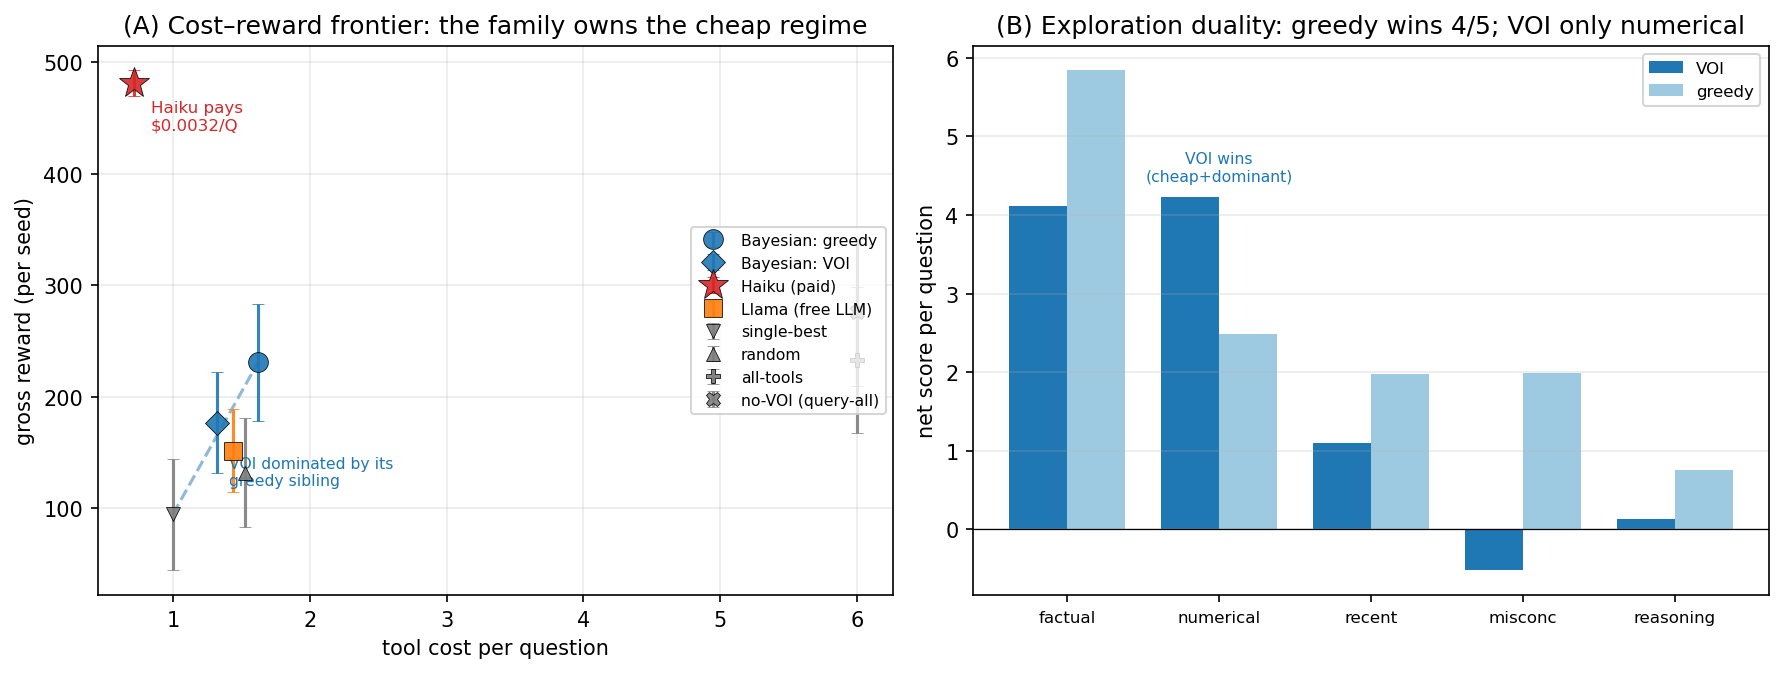
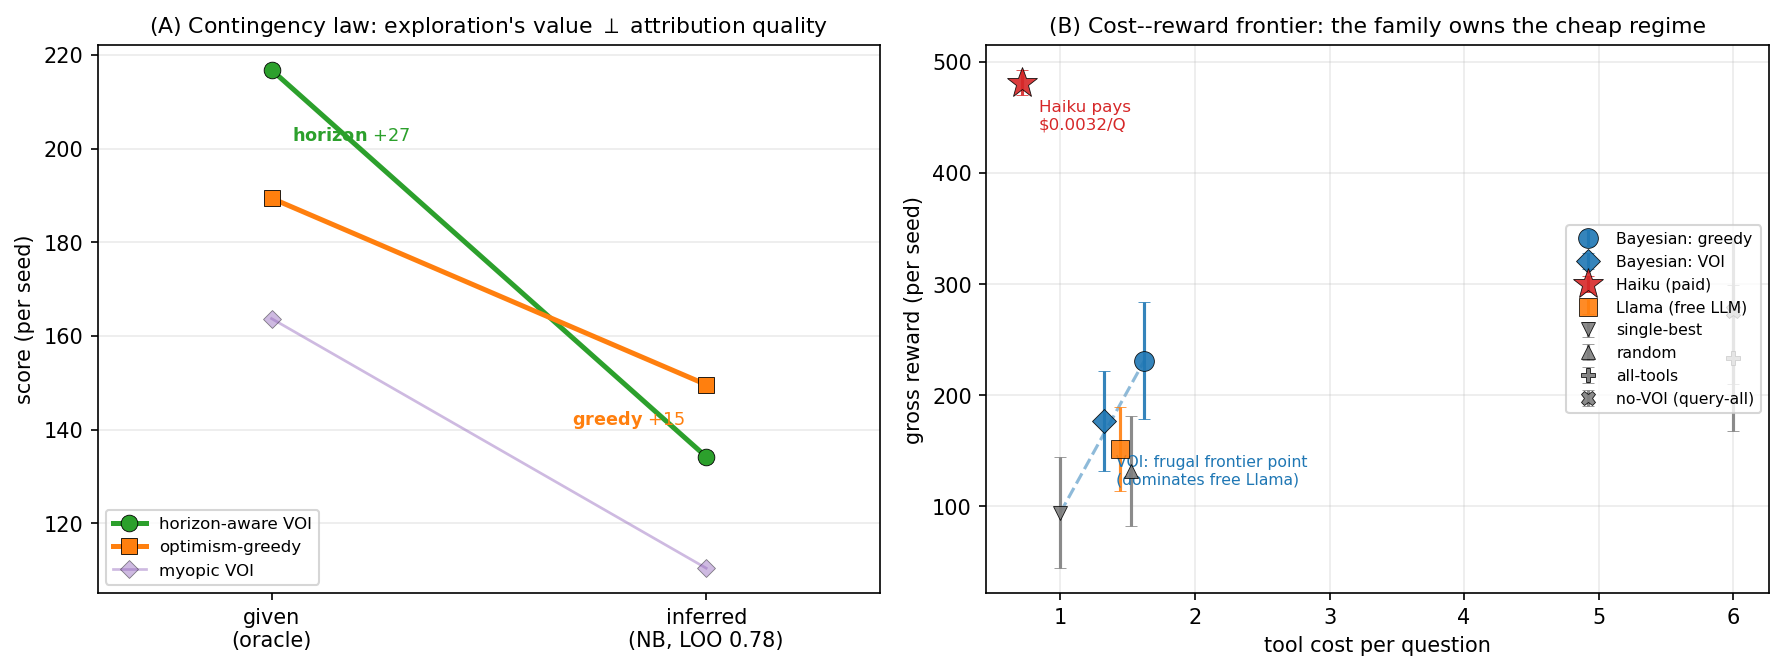
[paper1] Phase C: regenerate pareto figure to the contingency law
Panel A is now the decomposition as a slope chart: horizon-aware VOI beats
optimism-greedy by +27 with given (oracle) categories and loses by 15 once
they are inferred (0.78-accuracy classifier) -- the crossover is the
contingency law. Panel B keeps the cost--reward frontier with VOI as the
frugal point that dominates the free local Llama. Replaces the
pre-contingency annotations ("VOI dominated by its greedy sibling",
"greedy wins 4/5"). Decomposition numbers (which span several scripts) are
a documented dict citing papers/RESULTS.md; Panel B reads the host DB.

diff --git a/scripts/paper1-pareto-figure.py b/scripts/paper1-pareto-figure.py
@@ -1,15 +1,22 @@
 #!/usr/bin/env python3
-"""Paper 1 B4 figure — cost–reward frontier + the exploration duality.
+"""Paper 1 figure — the exploration--attribution contingency law + the cost frontier.
 
-Panel A: gross reward vs tool cost/Q. The Bayesian family (greedy, VOI) owns the
-cost-conscious frontier; Haiku is the paid-$ frontier point; Llama is dominated.
-Panel B: per-category net/Q, VOI vs greedy — the lopsided duality (greedy wins 4
-of 5; VOI wins only numerical, the cheap-and-dominant-by-a-wide-margin tool).
+Panel A (headline): the decomposition as a slope chart. Horizon-aware VOI beats
+optimism-greedy with *given* categories (+27) and loses under *inferred* ones; the
+crossover between the two conditions IS the contingency law. Myopic VOI shown faint
+(loses both). Decomposition numbers are locked in papers/RESULTS.md ("THE
+DECOMPOSITION"): the oracle column and the inferred greedy/myopic points come from
+the host DB; the inferred horizon point (134.2) comes from
+scripts/paper1-horizon-inferred.jl. Hard-coded here because they span scripts.
+
+Panel B: gross reward vs tool cost/Q. The Bayesian family (greedy, VOI) owns the
+cost-conscious frontier; VOI is the frugal point that dominates the free local Llama
+(fewer calls AND higher score); Haiku is the paid-$ frontier point; Llama dominated.
 
   python3 scripts/paper1-pareto-figure.py
 Writes papers/paper1/pareto.{pdf,png}.
 """
-import sqlite3, json, os, statistics as st
+import sqlite3, os, statistics as st
 import matplotlib
 matplotlib.use("Agg")
 import matplotlib.pyplot as plt
@@ -19,8 +26,13 @@ DB = os.path.join(HERE, "..", "apps", "julia", "qa_benchmark", "results", "bench
 OUT = os.path.join(HERE, "..", "papers", "paper1")
 con = sqlite3.connect(DB); con.row_factory = sqlite3.Row
 QPS = 50
-CATS = ["factual", "numerical", "recent_events", "misconceptions", "reasoning"]
-CATLAB = ["factual", "numerical", "recent", "misconc", "reasoning"]
+
+# Locked decomposition (papers/RESULTS.md): (oracle/given, inferred/fair) score.
+DECOMP = {
+    "horizon-aware VOI": (216.8, 134.2),
+    "optimism-greedy":   (189.4, 149.6),
+    "myopic VOI":        (163.7, 110.4),
+}
 
 
 def agg(agent):
@@ -32,21 +44,37 @@ def agg(agent):
                 api=st.mean(r["total_api_cost_usd"] for r in rr) / QPS)
 
 
-def per_cat_net(agent):
-    out = {c: [0.0, 0] for c in CATS}
-    for r in con.execute("SELECT q.category c, q.reward rw, q.tool_cost tc FROM questions q "
-                         "JOIN runs r ON q.run_id=r.id WHERE r.agent=?", (agent,)):
-        out[r["c"]][0] += r["rw"] - r["tc"]; out[r["c"]][1] += 1
-    return [out[c][0] / out[c][1] for c in CATS]
-
-
 AG = {a: agg(a) for a in ["bayesian_inferred", "greedy_inferred", "llama3.1",
                           "claude-haiku-4-5-20251001", "single_best", "random",
                           "all_tools", "no_voi_inferred"]}
 
 fig, (axA, axB) = plt.subplots(1, 2, figsize=(12, 4.6))
 
-# ---- Panel A: frontier ----
+# ---- Panel A: the contingency law (slope chart) ----
+xs = [0, 1]
+pa_style = {  # colour, marker, linewidth, alpha, markersize
+    "horizon-aware VOI": ("#2ca02c", "o", 2.4, 1.0, 8),
+    "optimism-greedy":   ("#ff7f0e", "s", 2.4, 1.0, 8),
+    "myopic VOI":        ("#9467bd", "D", 1.3, 0.45, 6),
+}
+for name, (y_oracle, y_inf) in DECOMP.items():
+    col, mk, lw, al, ms = pa_style[name]
+    axA.plot(xs, [y_oracle, y_inf], marker=mk, color=col, lw=lw, alpha=al, ms=ms,
+             markeredgecolor="black", markeredgewidth=0.4, label=name, zorder=3)
+# the two gaps that ARE the law, annotated at the line midpoints
+axA.annotate("horizon $+27$", (0.0, (216.8 + 189.4) / 2), textcoords="offset points",
+             xytext=(10, -3), fontsize=8.5, color="#2ca02c", fontweight="bold", ha="left")
+axA.annotate("greedy $+15$", (1.0, (149.6 + 134.2) / 2), textcoords="offset points",
+             xytext=(-10, -2), fontsize=8.5, color="#ff7f0e", fontweight="bold", ha="right")
+axA.set_xlim(-0.4, 1.4)
+axA.set_xticks(xs)
+axA.set_xticklabels(["given\n(oracle)", "inferred\n(NB, LOO 0.78)"])
+axA.set_ylabel("score (per seed)")
+axA.set_title("(A) Contingency law: exploration's value $\\perp$ attribution quality",
+              fontsize=10.5)
+axA.legend(fontsize=8, loc="lower left"); axA.grid(alpha=0.25, axis="y")
+
+# ---- Panel B: cost-reward frontier ----
 style = {
     "greedy_inferred":   ("Bayesian: greedy", "#1f77b4", "o", 90),
     "bayesian_inferred": ("Bayesian: VOI",    "#1f77b4", "D", 70),
@@ -59,35 +87,23 @@ style = {
 }
 for a, (lab, col, mk, sz) in style.items():
     d = AG[a]
-    axA.errorbar(d["tcost"], d["reward"], yerr=d["rsd"], fmt=mk, color=col,
+    axB.errorbar(d["tcost"], d["reward"], yerr=d["rsd"], fmt=mk, color=col,
                  ms=(sz**0.5), capsize=3, alpha=0.9, label=lab,
                  markeredgecolor="black", markeredgewidth=0.4, zorder=3)
-# family cheap-frontier line: single_best -> greedy (the $0 frontier), then up to Haiku
-axA.plot([AG["single_best"]["tcost"], AG["greedy_inferred"]["tcost"]],
+# family cheap-frontier line: single_best -> greedy (the $0 frontier)
+axB.plot([AG["single_best"]["tcost"], AG["greedy_inferred"]["tcost"]],
          [AG["single_best"]["reward"], AG["greedy_inferred"]["reward"]],
          "--", color="#1f77b4", alpha=0.5, zorder=1)
-axA.annotate("Haiku pays\n$0.0032/Q", (AG["claude-haiku-4-5-20251001"]["tcost"],
+axB.annotate("Haiku pays\n$0.0032/Q", (AG["claude-haiku-4-5-20251001"]["tcost"],
              AG["claude-haiku-4-5-20251001"]["reward"]), textcoords="offset points",
              xytext=(8, -22), fontsize=8, color="#d62728")
-axA.annotate("VOI dominated by its\ngreedy sibling", (AG["bayesian_inferred"]["tcost"],
-             AG["bayesian_inferred"]["reward"]), textcoords="offset points",
-             xytext=(6, -30), fontsize=7.5, color="#1f77b4")
-axA.set_xlabel("tool cost per question"); axA.set_ylabel("gross reward (per seed)")
-axA.set_title("(A) Cost–reward frontier: the family owns the cheap regime")
-axA.legend(fontsize=7.5, loc="center right"); axA.grid(alpha=0.25)
-
-# ---- Panel B: duality ----
-nb, ng = per_cat_net("bayesian_inferred"), per_cat_net("greedy_inferred")
-x = range(len(CATS)); w = 0.38
-axB.bar([i - w/2 for i in x], nb, w, label="VOI", color="#1f77b4")
-axB.bar([i + w/2 for i in x], ng, w, label="greedy", color="#9ecae1")
-axB.axhline(0, color="black", lw=0.6)
-axB.set_xticks(list(x)); axB.set_xticklabels(CATLAB, fontsize=8)
-axB.set_ylabel("net score per question")
-axB.set_title("(B) Exploration duality: greedy wins 4/5; VOI only numerical")
-axB.annotate("VOI wins\n(cheap+dominant)", (1, max(nb[1], ng[1]) + 0.2),
-             fontsize=7.5, ha="center", color="#1f77b4")
-axB.legend(fontsize=8); axB.grid(alpha=0.25, axis="y")
+axB.annotate("VOI: frugal frontier point\n(dominates free Llama)",
+             (AG["bayesian_inferred"]["tcost"], AG["bayesian_inferred"]["reward"]),
+             textcoords="offset points", xytext=(6, -30), fontsize=7.5, color="#1f77b4")
+axB.set_xlabel("tool cost per question"); axB.set_ylabel("gross reward (per seed)")
+axB.set_title("(B) Cost--reward frontier: the family owns the cheap regime",
+              fontsize=10.5)
+axB.legend(fontsize=7.5, loc="center right"); axB.grid(alpha=0.25)
 
 fig.tight_layout()
 os.makedirs(OUT, exist_ok=True)